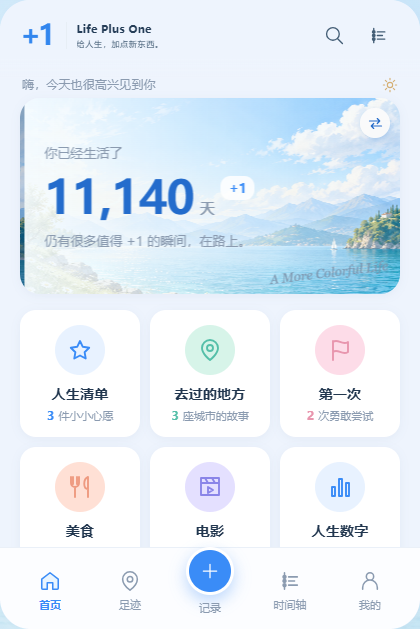
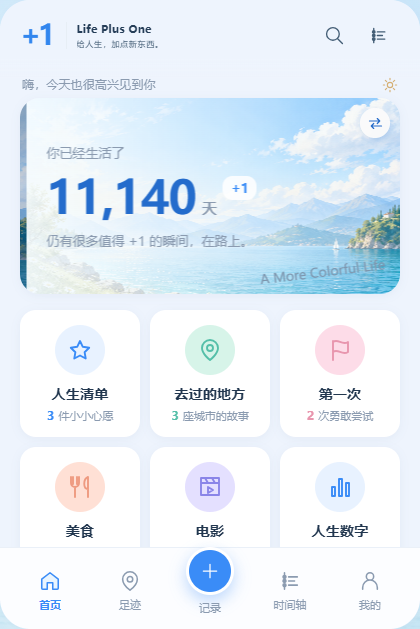
home hero: 统一文字到卡片边缘的距离，落款并入同一套字体与内边距

diff --git a/prototype.css b/prototype.css
@@ -17,6 +17,8 @@
   --pro-r-lg: 20px;
   --pro-r-md: 16px;
   --pro-r-sm: 13px;
+  /* 卡片统一内边距（左右）。正文、落款都用它，保证「文字→卡片边缘」的距离一致 */
+  --pro-inset: 20px;
   --pro-shadow: 0 2px 10px rgba(43, 86, 135, .06);
   --pro-shadow-up: 0 8px 22px rgba(43, 86, 135, .1);
   --pro-title: 700 34px/42px var(--font-ui);
@@ -204,7 +206,7 @@
 /* ── 首页 Hero：湖景照片 + 白色大数字 ───────────────── */
 .life-banner {
   min-height: 196px;
-  padding: 22px 20px;
+  padding: 22px var(--pro-inset);
   border-radius: var(--pro-r-lg);
   overflow: hidden;
   box-shadow: var(--pro-shadow);
@@ -244,19 +246,23 @@
   color: var(--pro-blue);
 }
 .banner-copy p { font: 500 13px/20px var(--font-ui); color: rgba(255, 255, 255, .86); }
-/* 落款：两版都在右下角，只有颜色随底色走 */
+/* 落款：并入卡片的排版系统，不再自带一套边距与字体。
+ * ① 位置遵守卡片的统一内边距 --pro-inset（原来是 16/14，比正文的 20 更贴边）；
+ * ② 字体族与正文统一（var(--font-ui)），只保留斜体 + 微倾做落款感。
+ * 这样「文字→卡片边缘」的距离在全卡、两版之间都是同一套数字。 */
 .banner-caption {
   position: absolute;
-  right: 16px;
-  bottom: 14px;
-  font: italic 13px Georgia, serif;
+  right: var(--pro-inset);
+  bottom: var(--pro-inset);
+  font: italic 13px/20px var(--font-ui);
   color: rgba(255, 255, 255, .8);
   transform: rotate(-7deg);
+  transform-origin: right bottom;
 }
 
 /* codex 简洁版卡片：浅色渐变 + 右侧露出照片 + 深蓝数字 + 落款 */
 /* 高度由上面的滑轨统一给（.banner-wrap .banner-slide .life-banner），这里只管底色与排版 */
-.life-banner.style-classic { padding: 22px 20px; background: var(--blue-soft); }
+.life-banner.style-classic { padding: 22px var(--pro-inset); background: var(--blue-soft); }
 .life-banner.style-classic:before { background-position: center 61%; }
 .life-banner.style-classic:after { background: linear-gradient(90deg, var(--hero-wash-start), var(--hero-wash-mid) 62%, var(--hero-wash-end)); }
 /* 简洁版（人生天数卡）只换颜色，不换字号 —— 与照片版保持同一套字体格式 */

diff --git a/life.js b/life.js
@@ -79,7 +79,9 @@ function bannerCopy(style) {
  // 照片版固定讲收藏数量；简洁版在没填生日时也退回这套，避免出现一片空白
  return { label:'你已经收藏了', count:state.records.length.toLocaleString(), unit:'个瞬间', note:'继续出发，去体验更多可能。', badge:false, caption:false };
 }
-/* 一张卡（两种版本共用一个渲染函数，切换时只换这张卡，不动整页） */
+/* 一张卡（两种版本共用一个渲染函数，切换时只换这张卡，不动整页）
+ * 落款是卡片的直接子元素：它遵守卡片的统一内边距（--pro-inset），
+ * 不再自带一套 16/14 的边距与自己的衬线字体。 */
 function bannerCard(style) {
  const t = bannerCopy(style);
  const body = `<div class="banner-copy"><span>${t.label}</span><div><strong>${t.count}</strong><span class="banner-unit">${t.unit}</span>${t.badge?'<em>+1</em>':''}</div><p>${t.note}</p></div>${t.caption?'<span class="banner-caption">A More Colorful Life</span>':''}`;

diff --git a/docs/PROTOTYPE_ALIGNMENT.md b/docs/PROTOTYPE_ALIGNMENT.md
@@ -199,3 +199,37 @@
   且**不带** +1 徽标与落款；简洁版必须是 `你已经生活了 / 天 / 仍有很多值得 +1 的瞬间，在路上。`
   且**带**徽标与落款；两版的单位与大数字必须不同（证明内容确实是两套口径）。
 - 迁移回归那条改成先切到简洁版再断言（默认进的是照片版收藏卡）。
+
+## 第八轮修订（文字到卡片边缘的距离统一 + 落款并入排版系统）
+
+反馈：「字体距离卡片边缘的距离不一致，天数卡片要和瞬间卡片保持一致，而且字体格式和大小感觉还有差异」。
+
+逐项量下来，**正文四段的几何两版早就一致**（左上右下都是 20 / 20，字号行高字重字体族只差颜色），
+真正的差异只有一处：**天数卡右下角的落款「A More Colorful Life」**。
+
+| 项 | 修改前 | 修改后 |
+| --- | --- | --- |
+| 落款右边距 | `16px`（正文是 20px） | `20px` = `--pro-inset` |
+| 落款下边距 | `14px` | `20px` = `--pro-inset` |
+| 落款字体 | `italic 13px Georgia, serif` | `italic 13px/20px var(--font-ui)`（与结语同字号、同行高、同字体族，只保留斜体） |
+| 卡片左右内边距 | 三处各写一个 `20px` | 统一走 `--pro-inset: 20px` |
+| 落款旋转轴 | 默认中心 | `transform-origin: right bottom`（贴着右下角转，量出来的边距就是看到的边距） |
+
+也就是说：一张卡里唯一一个「自带一套边距 + 自带一套字体」的元素被收回了排版系统。
+肉眼看到的就是落款比正文更贴边、字形也不一样 —— 去掉这两处例外，两版的距离就是同一套数字。
+
+自查脚本变化（`verify-home-cards.cjs`）：
+
+- 新增 `edgeOf()`：先临时清掉 `transform` 再量 `getBoundingClientRect`。落款带 `-7deg` 旋转，
+  直接量到的是旋转后的外接框，比看到的那一圈大，距离会失真（`transform` 不参与布局，临时清掉安全）。
+- 新增**边缘距离断言**：对「正文整体 / 首行 / 数字行 / 结语」四段分别取到卡片四边的距离，
+  先断言两版逐项 `deepEqual`，再断言左右都等于 `--pro-inset`（20px）。
+  首行 `<span>` 是行内元素、盒子宽度跟着文字走，只比对 `left / top`。
+- 新增**落款断言**：右边距与下边距必须等于正文用的同一套数值（20px），
+  字号 / 行高 / 字体族必须等于照片版结语的三个值（允许它是斜体）。
+- 以后谁再给某段文字单独写 `padding` / `margin` / 字体，这几条会立刻红。
+
+> 备注：`verify.cjs`（codex 原始端到端脚本）目前是红灯，停在第 31 行等待 `#record-form button[type=submit]`。
+> 该 id 在当前代码库里已不存在（`grep -rn "record-form" --include=*.js --include=*.html` 无结果），
+> 属历史遗留脚本对旧 DOM 的断言，与本轮改动无关。功能回归以 `verify-home-cards.cjs` /
+> `verify-experience.cjs` / `verify-header.cjs` / `verify-desktop-shell.cjs` 为准。
